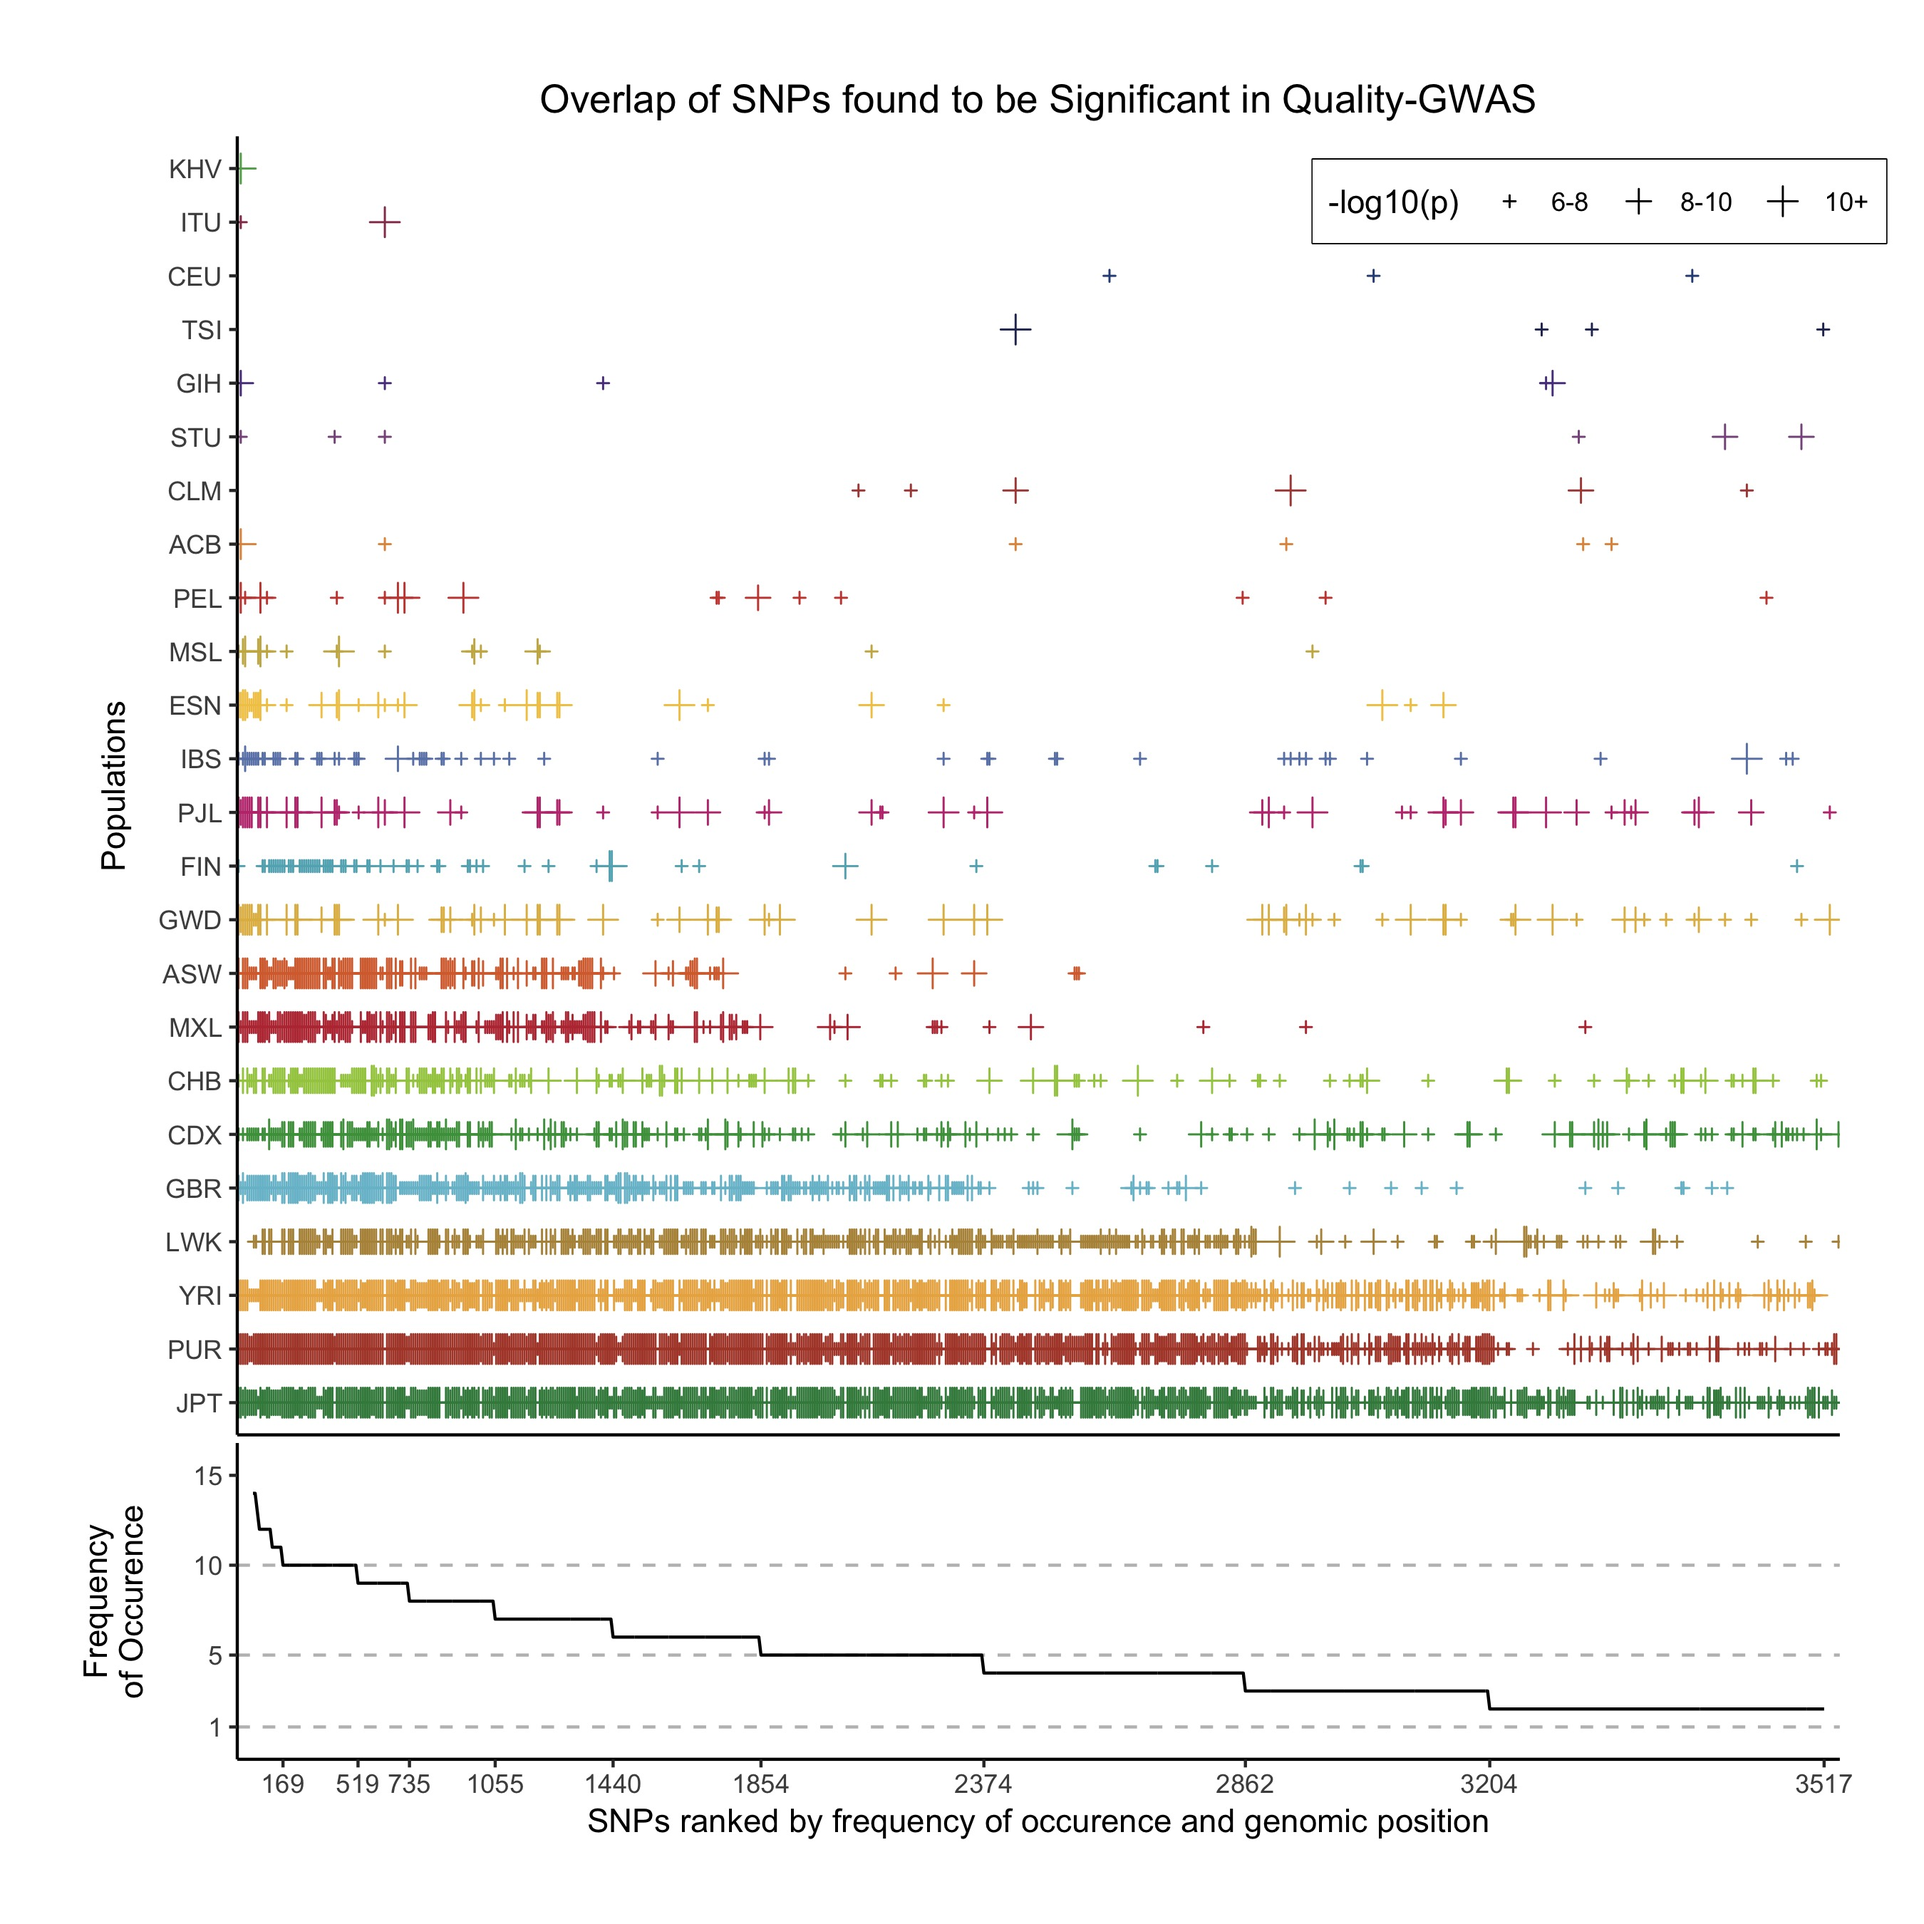
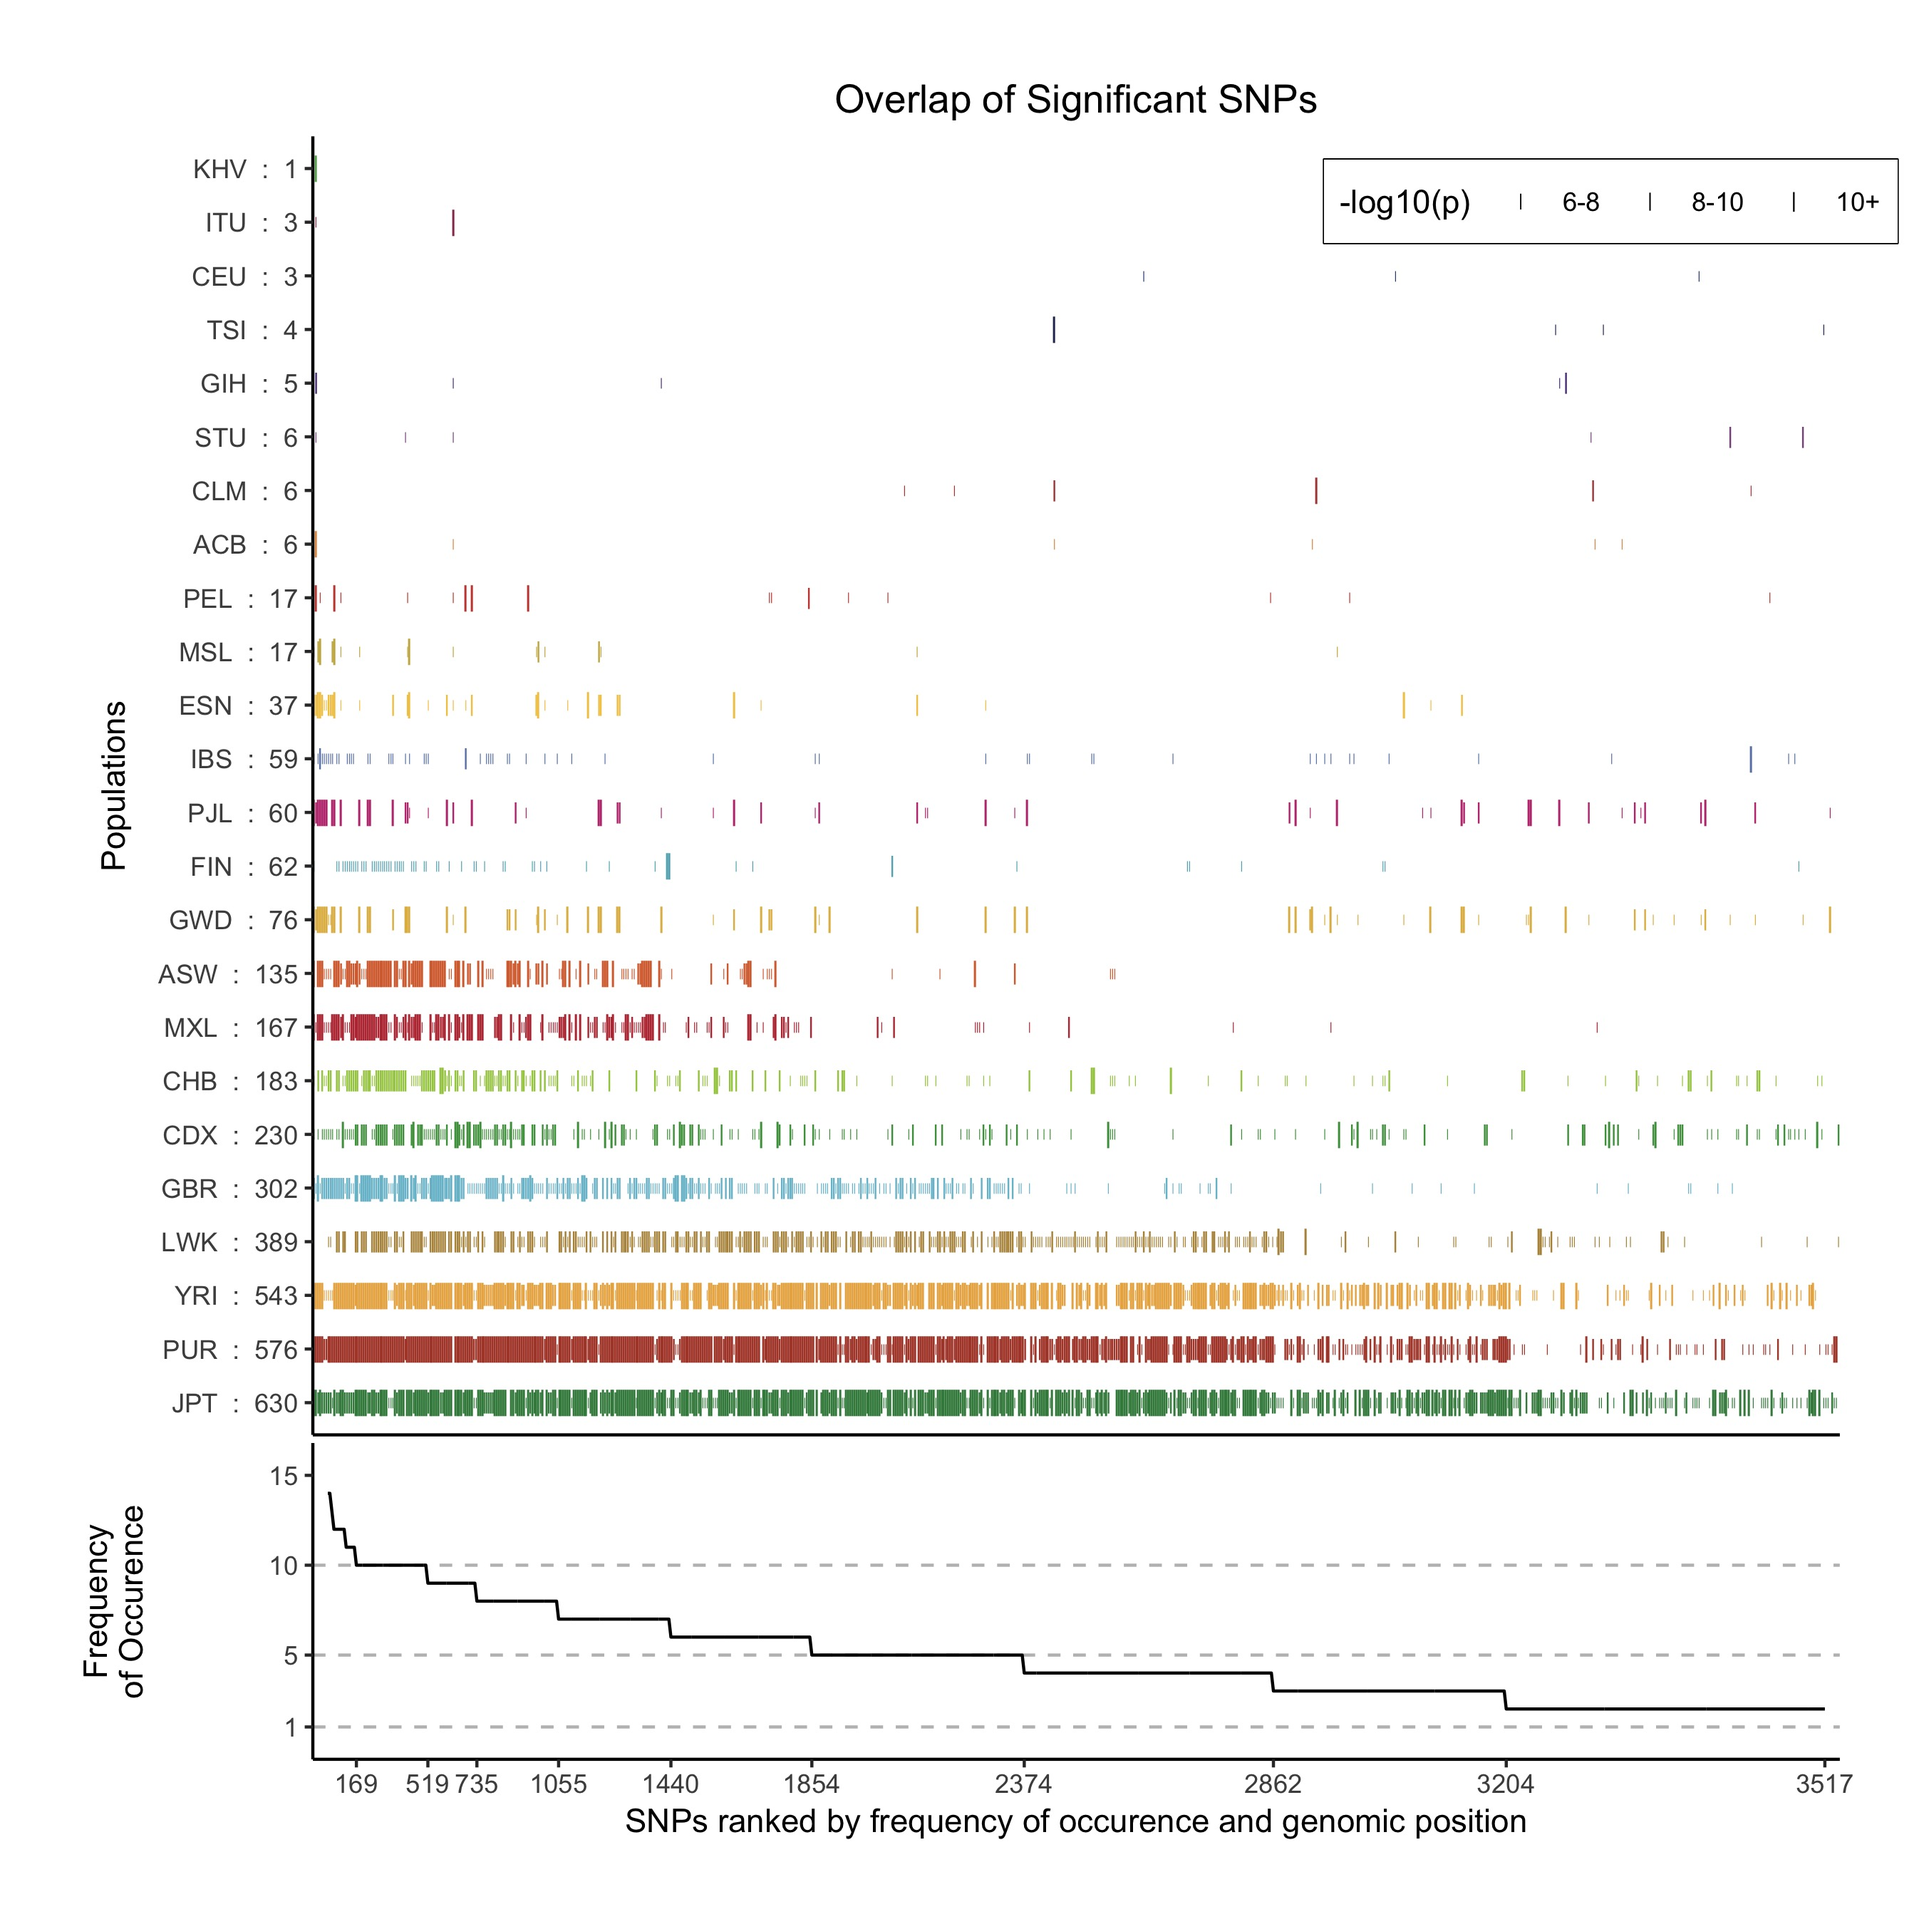
updated figures

diff --git a/legacy.tex b/legacy.tex
@@ -114,6 +114,7 @@ While trying to follow up on this observations in a larger and more recent Japan
 However, when comparing the allele frequencies between the Japanese individuals from the 1kGP and this larger dataset, we observed an unusually large number of single nucleotide polymorphisms (SNPs) private to one of the two groups.
 This is unexpected given the similarity of the two populations, and suggests a technical difference rather than a population structure effect. 
 Moreover, these mismatches were maintained after filtering for low-quality regions of the human genome and standard metrics such as Hardy-Weinberg equilibrium.
+Low frequency variants have little power to detect Hardy-Weinberg disequilibrium, in essence we would not expect any homozygous alternates for low frequency variants. 
 
 When mismatch sites were removed from the 1kGP data, the  *AC${\rightarrow}$*CC signal disappears (Figure \ref{SFS}).
 Regressions against different individual-level quality metrics provided by the 1kGP revealed that mean quality per mapped base pair per individual was an excellent correlate with prevalence of the  *AC${\rightarrow}$*CC mutational signature in 1kGP:
@@ -150,7 +151,7 @@ However, the average quality of mapped bases per individual appeared to be the b
 
 \subsection{Overlap of significant SNPs}
 The reverse GWAS approach similarly identified mapping-quality--associated SNPs in 24 of the 26 populations in the 1kGP.
-Over 3517 variants were independently associated to low quality in at least two populations  (Figure \ref{OverLap}), and 3664 SNPs were significant after a meta-analysis (taking the sum of the \sgcomment{squared?} deviations from each population and adjusting the degrees of freedom for the chi-squared test according to the number of populations with a segregating variant), as shown on Figure \ref{Manhattan}.  
+Over 3517 variants were independently associated to low quality in at least two populations  (Figure \ref{OverLap}), and 3664 SNPs were significant after a meta-analysis (taking the sum of the deviations from each population and adjusting the degrees of freedom for the chi-squared test according to the number of populations with a segregating variant), as shown on Figure \ref{Manhattan}.  
 \sgcomment{Look at the frequency distributions of these SNPs in GnomAD}
 
 \begin{figure*}
@@ -165,20 +166,13 @@ The same variants identified as being low quality independently in each populati
   \label{OverLap}
 \end{figure*}
 
-\subsection{Combined Test}
-%To increase statistical power, we performed a meta-analysis, computing a combined p-value for each position by taking the sum of the \sgcomment{squared?} deviations from each population and adjusting the degrees of freedom for the chi-squared test according to the number of populations with a segregating variant.
-%To improve on the power of our test, we performed a test by combining the deviations from the null model for each SNP for each population.
-%Each population will have it's own deviation from the null for each position in the genome.
-%We computed the combined p value for each position by taking the sum of the deviations from each population and adjusting the degrees of freedom for the chi-squared test according to the number of populations with a segregating variant.
-%This resulted in an increase in the number of SNPs reaching genome wide significance to 3664 (Figure \ref{Manhattan}).
-
 \subsection{Imputation}
 The state of the art imputation servers use a combination of many databases including many that are not freely available.
 From the perspective of researchers, they act as black-box imputation machines that take observed genotypes as input and return imputed genotypes.  
-In order to investigate the proportion of variants that we've identified as being associated to quality that are being imputed, we submitted genotype data from low-quality 1kGP individuals to the Michigan Imputation Server, and found that all of the SNPs we identified as being associated with quality were imputed. 
-\sgcomment{All of them? How is it possible if we only submitted Japanese? Also, I thought that we had only submitted a couple of chromosomes.} 
-\luke{Submitted all of the 1kGP, queried the combined meta-analysis list of SNPs}
-This suggests that the imputation reference panel likely includes individuals with low sequence quality, and the dubious variants have not been removed. \sgcomment{It may be useful to impute some of the NAG data.} 
+In order to investigate the proportion of variants that we've identified as being associated to quality that are being imputed, we submitted genotype data from all of the 1kGP individuals to the Michigan Imputation Server, and found that all of the SNPs we identified as being associated with quality for chromosomes 1 and 2 were imputed. This suggests that the imputation reference panel likely includes individuals with low sequence quality, and the dubious variants have not been removed. 
+%\sgcomment{All of them? How is it possible if we only submitted Japanese? Also, I thought that we had only submitted a couple of chromosomes.} 
+%\luke{Submitted all of the 1kGP, queried the combined meta-analysis list of SNPs}
+\sgcomment{It may be useful to impute some of the NAG data.} 
 
 
 \subsection{Found to be included in other GWAS }
@@ -351,6 +345,11 @@ Crosses ( + ) represent SNPs that reach a genome wide significance greater than 
 \label{TwinsSNP}
 \end{figure}
 
+\begin{figure}
+\includegraphics[width=\hsize,keepaspectratio]{./Figures/SNP6_Singles.jpg}
+\caption{Significant SNPs found in only one population. The x-axis is sorted by genomic position.}
+\label{Singles}
+\end{figure}
 
 \end{document}
 			
